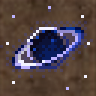
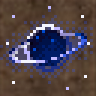
Самоцветы: разная раскладка алмаза, рубина, изумруда; тёмная материя и обсидиан разведены по цвету
Алмаз, рубин и изумруд больше не повторяют одну композицию «большой слева, два малых справа».
Тёмная материя — густой индиго с бело-фиолетовым кольцом, обсидиан — пурпурное чёрное стекло:
ΔE между ними 21 (раньше 4). Ободок кольца стал тоньше, сфера крупнее.

Claude-Session: https://claude.ai/code/session_0136gV4z446Ram1BD5cWLTAs

diff --git a/tools/ores_gems.py b/tools/ores_gems.py
@@ -295,11 +295,11 @@ def fit_blades(params, box):
 def _obsidian(mode):
     cv = Cv("obsidian")
     P = {
-        "deep": lch(3, 14, 322), "base": lch(8, 24, 320), "mid": lch(17, 42, 318), "lit": lch(32, 58, 316),
-        "rim": lch(72, 50, 322), "rim2": lch(46, 62, 318), "glint": lch(96, 8, 310),
+        "deep": lch(3, 14, 328), "base": lch(8, 26, 328), "mid": lch(16, 42, 326), "lit": lch(32, 60, 324),
+        "rim": lch(74, 52, 328), "rim2": lch(40, 64, 326), "glint": lch(96, 8, 316),
     }
     blades = [(23, 27, 17, 7, 19, 1.5), (7, 27, 12, 5, -24, -1.0), (14, 29, 25, 10, -8, 1.5),
-              (19, 30, 8, 5, 6, 0.5), (4, 28, 6, 4, -52, 0.0)]
+              (19, 30, 8, 5, 6, 0.5)]
     box = (4, 3, 28, 29) if mode == "tile" else (1, 1, 31, 31)
     for bx, by, ln, wd, ang, sk in fit_blades(blades, box):
         b = blade(bx, by, ln, wd, ang, sk)
@@ -312,10 +312,10 @@ def _obsidian(mode):
         kx, ky = b["KL"]
         cap = poly_mask([b["T"], b["KL"], ((tx + kx) / 2 + 2, (ty + ky) / 2 + 1)]) & sil
         cv.fill(cap, P["lit"])
-        cv.rim(sil, P["rim"], P["rim2"], 0.95, 0.85)
+        cv.rim(sil, P["rim"], P["rim2"], 0.95, 0.7)
         cv.line((tx, ty + 1), (tx + (kx - tx) * 0.5, ty + (ky - ty) * 0.5 + 1), P["glint"])
     cv.shadow()
-    cv.halo(lch(38, 62, 318), 1.6, 0.5)
+    cv.halo(lch(38, 64, 326), 1.6, 0.5)
     return cv.sprite()
 
 
@@ -346,13 +346,13 @@ def _disc(cv, cx, cy, rx, ry, ang, front, tones, qlo=0.6):
 
 def _dark_matter(mode):
     cv = Cv("dark_matter")
-    k = 0.9 if mode == "tile" else 1.1
+    k = 0.92 if mode == "tile" else 1.1
     cx, cy = 15.5, 15.5
-    r = 6.3 * k
-    rx, ry, ang = 14.6 * k, 5.4 * k, -24.0
-    ring = [lch(22, 50, 298), lch(42, 72, 296), lch(76, 42, 298), lch(96, 8, 290)]
-    _disc(cv, cx, cy, rx, ry, ang, False, [tone(c, -16, 0.9) for c in ring], qlo=0.74)
-    sph = [lch(1, 4, 295), lch(3, 12, 295), lch(7, 28, 296), lch(14, 46, 297)]
+    r = 6.8 * k
+    rx, ry, ang = 14.8 * k, 4.8 * k, -14.0
+    ring = [lch(24, 56, 297), lch(46, 80, 295), lch(78, 42, 297), lch(97, 8, 288)]
+    _disc(cv, cx, cy, rx, ry, ang, False, [tone(c, -16, 0.9) for c in ring], qlo=0.8)
+    sph = [lch(1, 8, 296), lch(4, 26, 296), lch(8, 40, 296), lch(14, 52, 296)]
     sphere(cv, cx, cy, r, sph, light=(0.4, 0.5), bias=0.6)
     # ободок линзирования: тонкая светлая кромка сверху-слева, на нижне-правой — тёмно-фиолетовая
     for y in range(G):
@@ -363,11 +363,11 @@ def _dark_matter(mode):
                 cv.put(x, y, ring[3] if t > 0.55 else (ring[2] if t > 0.0 else ring[0]))
     for (x, y) in ((12, 12), (14, 10), (17, 13), (11, 16)):
         cv.put(x, y, tone(ring[1], -10))
-    _disc(cv, cx, cy, rx, ry, ang, True, ring, qlo=0.74)
+    _disc(cv, cx, cy, rx, ry, ang, True, ring, qlo=0.8)
     for (x, y) in ((4, 5), (27, 5), (28, 25), (4, 27), (16, 2), (22, 29), (2, 14), (29, 14)):
         if cv.a[y, x, 3] == 0:
             cv.put(x, y, ring[3] if (x + y) % 3 else ring[2])
-    cv.halo(lch(36, 66, 298), 2.0, 0.6)
+    cv.halo(lch(42, 78, 296), 2.3, 0.72)
     return cv.sprite()
 
 
@@ -514,21 +514,21 @@ def _diamond(mode):
         "light": lch(92, 14, 200), "hi": lch(99, 3, 200), "cyan": lch(76, 40, 195),
     }
     if mode == "tile":
-        gems = [(22, 4, 10, 10, 0.0), (11.5, 9, 14, 14, -0.5), (21.5, 17, 8, 8, 0.5)]
+        gems = [(8.5, 5, 9, 9, -0.5), (24, 8, 7, 7, 0.5), (15, 12, 15, 14.5, 0.0)]
     else:
-        gems = [(22, 1, 12, 12, 0.0), (11, 8, 17, 17, -0.5), (22, 18, 11, 11, 0.5)]
+        gems = [(8, 2, 11, 11, -0.5), (24.5, 6, 9, 9, 0.5), (15.5, 11, 18, 18, 0.0)]
     for cx, top, w, h, fl in gems:
         _brilliant(cv, cx, top, w, h, P, fl)
     # искры-кресты на гранях и мелкая крошка
     if mode == "tile":
-        cv.spark(9, 11, (255, 255, 255), P["hi"], 1)
-        cv.spark(23, 7, (255, 255, 255), P["hi"], 0)
-        cv.put(26, 24, P["base"])
-        cv.put(26, 25, P["deep"])
-        cv.put(6, 26, P["light"])
+        cv.spark(10, 15, (255, 255, 255), P["hi"], 2)
+        cv.spark(26, 6, (255, 255, 255), P["hi"], 0)
+        cv.put(5, 24, P["base"])
+        cv.put(5, 25, P["deep"])
+        cv.put(26, 25, P["light"])
     else:
-        cv.spark(8, 11, (255, 255, 255), P["hi"], 2)
-        cv.spark(24, 7, (255, 255, 255), P["hi"], 1)
+        cv.spark(9, 16, (255, 255, 255), P["hi"], 2)
+        cv.spark(26, 5, (255, 255, 255), P["hi"], 1)
     return cv.sprite()
 
 
@@ -580,18 +580,18 @@ def _ruby(mode):
         "light": lch(53, 76, 34), "hi": lch(70, 56, 28), "spec": lch(90, 22, 20), "reflex": lch(60, 70, 34),
     }
     if mode == "tile":
-        gems = [(22.5, 11, 3.6, 4.6, 26, True), (11.5, 16, 6.8, 5.0, -28, False), (21.5, 22.5, 3.4, 3.4, 0, False)]
+        gems = [(8.5, 9.5, 3.7, 4.5, -128, True), (17.5, 18.5, 7.0, 5.2, 16, False), (7.5, 23.5, 3.4, 3.4, 0, False)]
     else:
-        gems = [(23, 9, 4.4, 5.6, 26, True), (12, 17, 8.4, 6.2, -28, False), (23, 24, 4.2, 4.2, 0, False)]
+        gems = [(8, 8.5, 4.6, 5.6, -128, True), (18, 18.5, 8.8, 6.5, 16, False), (7, 25, 4.2, 4.2, 0, False)]
     for cx, cy, rx, ry, rot, pear in gems:
         _gem_oval(cv, cx, cy, rx, ry, rot, P, pear)
     if mode == "tile":
-        cv.spark(8, 11, (255, 235, 240), P["hi"], 1)
-        cv.put(26, 18, P["base"])
-        cv.put(5, 24, P["shade"])
-        cv.put(6, 24, P["out"])
+        cv.spark(21, 11, (255, 235, 240), P["hi"], 1)
+        cv.put(26, 24, P["base"])
+        cv.put(27, 24, P["out"])
+        cv.put(15, 5, P["shade"])
     else:
-        cv.spark(7, 10, (255, 235, 240), P["hi"], 2)
+        cv.spark(22, 9, (255, 235, 240), P["hi"], 2)
     return cv.sprite()
 
 
@@ -654,17 +654,17 @@ def _emerald(mode):
         "reflex": lch(60, 64, 150),
     }
     if mode == "tile":
-        gems = [(22.5, 9.5, 7.0, 9.5, 20), (11.5, 17, 10.0, 14.0, 0), (22.5, 22, 6.5, 8.0, -12)]
+        gems = [(8.5, 10, 7.5, 10.0, -24), (17.5, 16, 11.0, 15.0, 6), (8.5, 23.5, 6.0, 7.5, 14)]
     else:
-        gems = [(24, 8, 8.0, 11.0, 20), (11.5, 17.5, 12.0, 17.0, 0), (24, 24, 8.0, 10.0, -12)]
+        gems = [(8, 9, 9.0, 12.0, -24), (18, 16.5, 13.0, 18.0, 6), (8, 25, 7.0, 9.0, 14)]
     for cx, cy, w, h, ang in gems:
         _gem_step(cv, cx, cy, w, h, ang, P)
     if mode == "tile":
-        cv.spark(7, 8, P["spec"], P["hi"], 1)
-        cv.put(27, 27, P["shade"])
-        cv.put(4, 27, P["deep"])
+        cv.spark(25, 8, P["spec"], P["hi"], 1)
+        cv.put(26, 25, P["shade"])
+        cv.put(26, 26, P["deep"])
     else:
-        cv.spark(6, 6, P["spec"], P["hi"], 2)
+        cv.spark(26, 6, P["spec"], P["hi"], 2)
     return cv.sprite()
 
 
